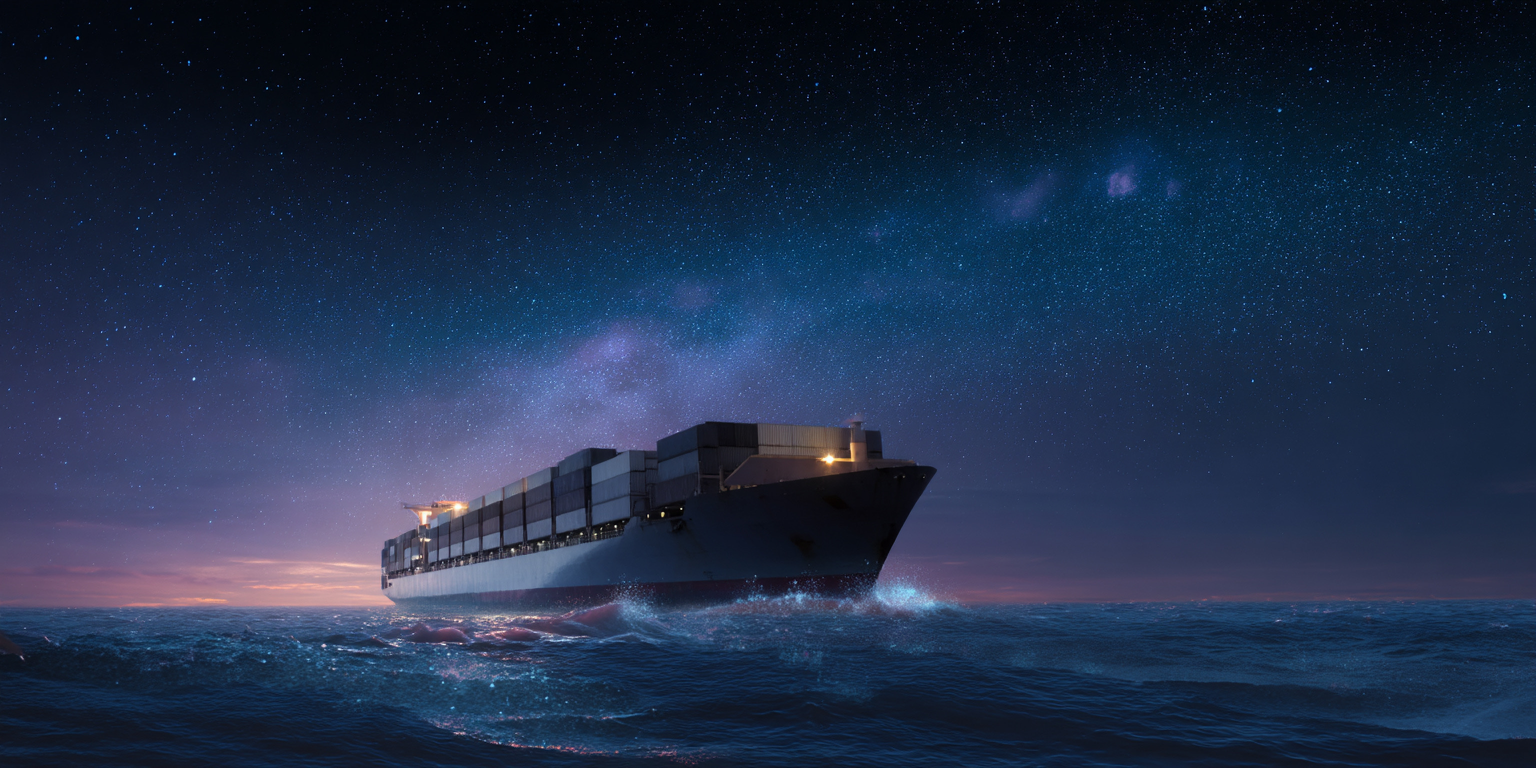
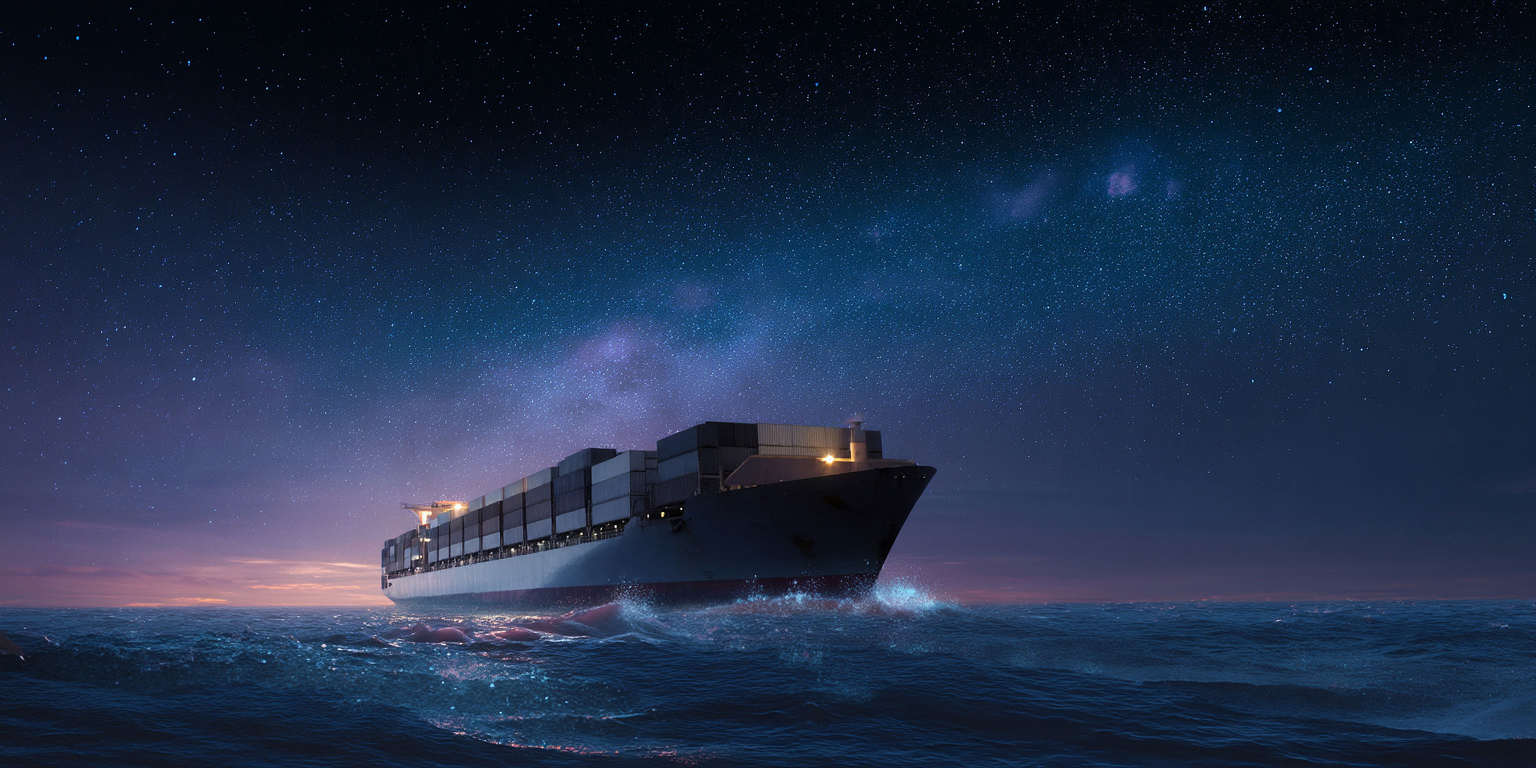
Improve image rendering quality across the site

diff --git a/styles.css b/styles.css
@@ -11,6 +11,13 @@
     --gray-dark: #888;
 }
 
+/* Global image quality improvement */
+img, 
+[style*="background-image"] {
+    image-rendering: -webkit-optimize-contrast;
+    image-rendering: crisp-edges;
+}
+
 * {
     margin: 0;
     padding: 0;
@@ -162,6 +169,9 @@ header.scrolled .logo {
     justify-content: flex-start;
     color: white;
     padding-left: 30px;
+    image-rendering: -webkit-optimize-contrast; /* Improves image rendering in Chrome */
+    image-rendering: crisp-edges; /* CSS standard property for better image rendering */
+    -ms-interpolation-mode: nearest-neighbor; /* For IE */
 }
 
 #hero::before {
